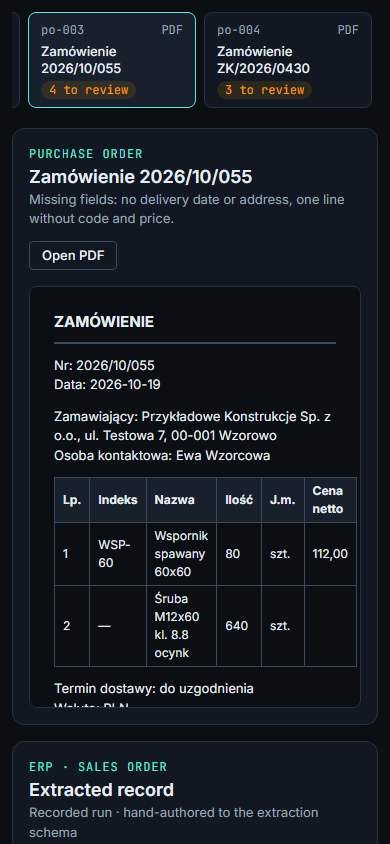
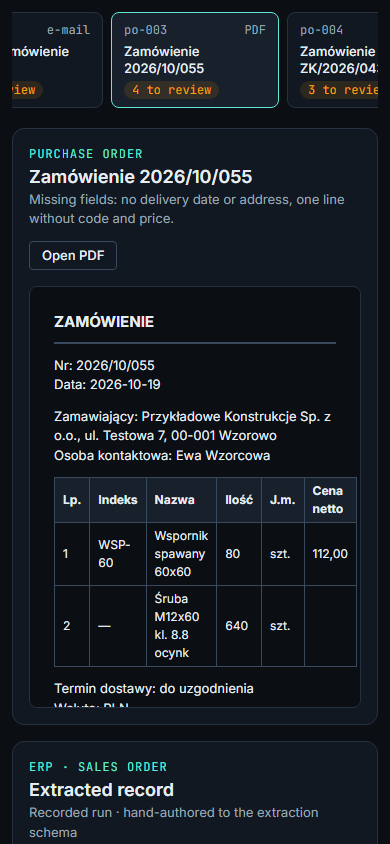
fix: restore focus after edits, report export errors and move type scale into tokens

Changed region(s): [[0.0308, 0.0, 0.5538, 0.1232], [0.5538, 0.0, 0.9846, 0.1232]]

diff --git a/src/ui/app.ts b/src/ui/app.ts
@@ -29,6 +29,9 @@ interface State {
   selected: string | null;
   editing: string | null;
   editError: string | null;
+  /** Element to focus after the next render (the editor it replaced is gone). */
+  focusAfter: string | null;
+  exportError: string | null;
   live: { busy: boolean; error: string | null };
 }
 
@@ -63,6 +66,8 @@ export function startApp(root: HTMLElement, initialDocId: string | null): void {
     selected: null,
     editing: null,
     editError: null,
+    focusAfter: null,
+    exportError: null,
     live: { busy: false, error: null },
   };
 
@@ -86,12 +91,36 @@ export function startApp(root: HTMLElement, initialDocId: string | null): void {
     );
     state.editing = null;
     state.editError = null;
+    state.focusAfter = `field:${path}`;
     render();
+  };
+
+  const closeEditor = (path: string) => {
+    state.editing = null;
+    state.editError = null;
+    state.focusAfter = `edit:${path}`;
+    render();
+  };
+
+  const selectField = (path: string) => {
+    if (state.selected === path) return;
+    state.selected = path;
+    highlightSource(viewOf(state.docId));
+    markSelected();
+  };
+
+  const runExport = (task: () => Promise<void>) => {
+    state.exportError = null;
+    task().catch((error: unknown) => {
+      state.exportError = `Export failed: ${error instanceof Error ? error.message : String(error)}`;
+      render();
+    });
   };
 
   function render(): void {
     const active = document.activeElement as HTMLElement | null;
-    const focusKey = active?.dataset['focus'];
+    const focusKey = state.focusAfter ?? active?.dataset['focus'];
+    state.focusAfter = null;
     const view = viewOf(state.docId);
     root.replaceChildren(header(), tabs(), workspace(view), footer());
     highlightSource(view);
@@ -107,7 +136,8 @@ export function startApp(root: HTMLElement, initialDocId: string | null): void {
     const tab = strip?.querySelector<HTMLElement>('[aria-current="true"]');
     if (!strip || !tab || strip.scrollWidth <= strip.clientWidth) return;
     // Not scrollIntoView: inside the case-study iframe that would also scroll the host page.
-    strip.scrollLeft = tab.offsetLeft - strip.offsetLeft - 16;
+    strip.scrollLeft =
+      tab.offsetLeft - strip.offsetLeft - (strip.clientWidth - tab.offsetWidth) / 2;
   }
 
   function header(): HTMLElement {
@@ -370,11 +400,7 @@ export function startApp(root: HTMLElement, initialDocId: string | null): void {
       };
       input.addEventListener('keydown', (e) => {
         if (e.key === 'Enter') save();
-        if (e.key === 'Escape') {
-          state.editing = null;
-          state.editError = null;
-          render();
-        }
+        if (e.key === 'Escape') closeEditor(f.path);
       });
       children.push(
         h(
@@ -387,11 +413,7 @@ export function startApp(root: HTMLElement, initialDocId: string | null): void {
             {
               class: 'btn btn-ghost',
               type: 'button',
-              onClick: () => {
-                state.editing = null;
-                state.editError = null;
-                render();
-              },
+              onClick: () => closeEditor(f.path),
             },
             'Cancel',
           ),
@@ -462,22 +484,15 @@ export function startApp(root: HTMLElement, initialDocId: string | null): void {
           .filter(Boolean)
           .join(' '),
         'data-path': f.path,
+        role: 'group',
+        'aria-label': `${f.label}: ${STATUS_LABEL[f.status]}`,
+        // Focusable so keyboard users can select a field and see its source highlighted.
         tabindex: '0',
         'data-focus': `field:${f.path}`,
         onFocus: (e: Event) => {
-          if (e.target === e.currentTarget && state.selected !== f.path) {
-            state.selected = f.path;
-            highlightSource(viewOf(state.docId));
-            markSelected();
-          }
+          if (e.target === e.currentTarget) selectField(f.path);
         },
-        onClick: () => {
-          if (state.selected !== f.path) {
-            state.selected = f.path;
-            highlightSource(viewOf(state.docId));
-            markSelected();
-          }
-        },
+        onClick: () => selectField(f.path),
       },
       ...children,
     );
@@ -531,7 +546,7 @@ export function startApp(root: HTMLElement, initialDocId: string | null): void {
             class: 'btn btn-primary',
             type: 'button',
             'data-focus': 'csv',
-            onClick: () => void exportCsv(view),
+            onClick: () => runExport(() => exportCsv(view)),
           },
           'Export CSV',
         ),
@@ -541,11 +556,12 @@ export function startApp(root: HTMLElement, initialDocId: string | null): void {
             class: 'btn btn-ghost',
             type: 'button',
             'data-focus': 'xlsx',
-            onClick: () => void exportXlsx(),
+            onClick: () => runExport(exportXlsx),
           },
           'Export XLSX (all documents)',
         ),
       ),
+      state.exportError ? h('p', { class: 'alert', role: 'alert' }, state.exportError) : null,
       h(
         'p',
         { class: 'export-note' },

diff --git a/tests/tokens.test.ts b/tests/tokens.test.ts
@@ -1,0 +1,96 @@
+import { readdirSync, readFileSync } from 'node:fs';
+import { join } from 'node:path';
+import { describe, expect, it } from 'vitest';
+
+const STYLES = join(import.meta.dirname, '..', 'src', 'styles');
+const tokensCss = readFileSync(join(STYLES, 'tokens.css'), 'utf8');
+
+function token(name: string): string {
+  const m = new RegExp(`--${name}:\\s*([^;]+);`).exec(tokensCss);
+  if (!m?.[1]) throw new Error(`token --${name} not found`);
+  return m[1].trim();
+}
+
+type Rgba = [number, number, number, number];
+
+function parseColor(value: string): Rgba {
+  const hex = /^#([0-9a-f]{6})$/i.exec(value);
+  if (hex?.[1]) {
+    const n = parseInt(hex[1], 16);
+    return [(n >> 16) & 255, (n >> 8) & 255, n & 255, 1];
+  }
+  const rgb = /^rgb\((\d+) (\d+) (\d+) \/ (\d+)%\)$/.exec(value);
+  if (rgb) return [Number(rgb[1]), Number(rgb[2]), Number(rgb[3]), Number(rgb[4]) / 100];
+  throw new Error(`unsupported colour ${value}`);
+}
+
+/** Alpha-composites `top` over an opaque `bottom`. */
+function over(top: Rgba, bottom: Rgba): Rgba {
+  const a = top[3];
+  return [0, 1, 2].map((i) => top[i]! * a + bottom[i]! * (1 - a)).concat(1) as Rgba;
+}
+
+// WCAG 2.x relative luminance and contrast ratio.
+function luminance([r, g, b]: Rgba): number {
+  const lin = (c: number) => {
+    const s = c / 255;
+    return s <= 0.03928 ? s / 12.92 : ((s + 0.055) / 1.055) ** 2.4;
+  };
+  return 0.2126 * lin(r) + 0.7152 * lin(g) + 0.0722 * lin(b);
+}
+
+function contrast(fg: Rgba, bg: Rgba): number {
+  const [hi, lo] = [luminance(fg), luminance(bg)].sort((a, b) => b - a) as [number, number];
+  return (hi + 0.05) / (lo + 0.05);
+}
+
+const c = (name: string) => parseColor(token(`color-${name}`));
+const tinted = (soft: string, base = 'surface') => over(c(soft), c(base));
+
+describe('design tokens', () => {
+  it('keep the agreed temporary brand values', () => {
+    expect(token('color-bg')).toBe('#0b0f14');
+    expect(token('color-surface')).toBe('#121821');
+    expect(token('color-text')).toBe('#e6edf3');
+    expect(token('color-text-muted')).toBe('#9aa7b4');
+    expect(token('color-accent')).toBe('#5eead4');
+    expect(token('color-warning')).toBe('#f59e0b');
+    expect(token('color-danger')).toBe('#f87171');
+    expect(token('font-sans')).toMatch(/^'Inter'/);
+    expect(token('font-mono')).toMatch(/^'JetBrains Mono'/);
+  });
+
+  it('are the only place with colours or font values — other stylesheets use var(--…)', () => {
+    for (const file of readdirSync(STYLES).filter((f) => f !== 'tokens.css')) {
+      const css = readFileSync(join(STYLES, file), 'utf8').replace(/\/\*[\s\S]*?\*\//g, '');
+      expect(css, file).not.toMatch(/#[0-9a-f]{3,8}\b|rgba?\(|hsla?\(/i);
+      expect(css, file).not.toMatch(/font-(size|weight|family):(?!\s*var\()[^;]*;/);
+      expect(css, file).not.toMatch(/line-height:\s*[\d.]+;/);
+    }
+  });
+
+  // [foreground, background, minimum ratio] — every pairing the stylesheet uses for text.
+  const pairs: [string, () => Rgba, () => Rgba, number][] = [
+    ['text on bg', () => c('text'), () => c('bg'), 4.5],
+    ['text on surface', () => c('text'), () => c('surface'), 4.5],
+    ['text on surface-2', () => c('text'), () => c('surface-2'), 4.5],
+    ['muted on bg', () => c('text-muted'), () => c('bg'), 4.5],
+    ['muted on surface', () => c('text-muted'), () => c('surface'), 4.5],
+    ['muted on surface-2', () => c('text-muted'), () => c('surface-2'), 4.5],
+    ['accent on surface', () => c('accent'), () => c('surface'), 4.5],
+    ['warning on surface-2', () => c('warning'), () => c('surface-2'), 4.5],
+    ['danger on surface-2', () => c('danger'), () => c('surface-2'), 4.5],
+    ['on-accent on accent', () => c('on-accent'), () => c('accent'), 4.5],
+    ['text on warning-soft', () => c('text'), () => tinted('warning-soft'), 4.5],
+    ['muted on warning-soft', () => c('text-muted'), () => tinted('warning-soft'), 4.5],
+    ['warning on warning-soft', () => c('warning'), () => tinted('warning-soft'), 4.5],
+    ['danger on warning-soft', () => c('danger'), () => tinted('warning-soft'), 4.5],
+    ['accent on accent-soft', () => c('accent'), () => tinted('accent-soft'), 4.5],
+    ['danger on danger-soft', () => c('danger'), () => tinted('danger-soft'), 4.5],
+    ['text on highlight', () => c('text'), () => tinted('highlight', 'bg'), 4.5],
+  ];
+
+  it.each(pairs)('meet WCAG AA contrast: %s', (_name, fg, bg, min) => {
+    expect(contrast(fg(), bg())).toBeGreaterThanOrEqual(min);
+  });
+});

diff --git a/src/styles/app.css b/src/styles/app.css
@@ -11,7 +11,7 @@ body {
   background: var(--color-bg);
   color: var(--color-text);
   font-family: var(--font-sans);
-  font-size: 16px;
+  font-size: var(--text-base);
   line-height: var(--leading);
 }
 
@@ -67,8 +67,8 @@ pre {
 
 .brand h1 {
   font-size: var(--text-lg);
-  font-weight: 600;
-  letter-spacing: -0.01em;
+  font-weight: var(--weight-semibold);
+  letter-spacing: var(--tracking-tight);
 }
 
 .tagline {
@@ -81,7 +81,7 @@ pre {
   font-family: var(--font-mono);
   font-size: var(--text-xs);
   padding: var(--space-1) var(--space-3);
-  border-radius: 999px;
+  border-radius: var(--radius-pill);
   border: 1px solid var(--color-border-strong);
   color: var(--color-text-muted);
 }
@@ -133,15 +133,15 @@ pre {
 
 .doc-tab-title {
   font-size: var(--text-sm);
-  font-weight: 500;
-  line-height: 1.3;
+  font-weight: var(--weight-medium);
+  line-height: var(--leading-tight);
 }
 
 .pill {
   font-family: var(--font-mono);
   font-size: var(--text-xs);
   padding: 0 var(--space-2);
-  border-radius: 999px;
+  border-radius: var(--radius-pill);
 }
 
 .pill-ok {
@@ -189,14 +189,14 @@ pre {
 
 .pane-head h2 {
   font-size: var(--text-lg);
-  font-weight: 600;
+  font-weight: var(--weight-semibold);
 }
 
 .eyebrow {
   font-family: var(--font-mono);
   font-size: var(--text-xs);
   text-transform: uppercase;
-  letter-spacing: 0.08em;
+  letter-spacing: var(--tracking-caps);
   color: var(--color-accent);
 }
 
@@ -230,7 +230,7 @@ pre {
 
 .paper h1 {
   font-size: var(--text-md);
-  font-weight: 700;
+  font-weight: var(--weight-bold);
   padding-bottom: var(--space-2);
   margin-bottom: var(--space-3);
   border-bottom: 2px solid var(--color-border-strong);
@@ -278,7 +278,7 @@ pre {
 .summary strong {
   font-family: var(--font-mono);
   font-size: var(--text-xl);
-  line-height: 1;
+  line-height: var(--leading-none);
 }
 
 .summary-sub {
@@ -313,9 +313,9 @@ pre {
   grid-column: 1 / -1;
   font-family: var(--font-mono);
   font-size: var(--text-xs);
-  font-weight: 500;
+  font-weight: var(--weight-medium);
   text-transform: uppercase;
-  letter-spacing: 0.08em;
+  letter-spacing: var(--tracking-caps);
   color: var(--color-text-muted);
 }
 
@@ -359,7 +359,7 @@ pre {
 .field-label {
   flex: 1;
   color: var(--color-text-muted);
-  font-weight: 500;
+  font-weight: var(--weight-medium);
 }
 
 .conf,
@@ -445,7 +445,7 @@ pre {
   font-size: var(--text-xs);
   color: var(--color-warning);
   text-transform: uppercase;
-  letter-spacing: 0.04em;
+  letter-spacing: var(--tracking-wide);
 }
 
 .issue-inconsistent .issue-code,
@@ -506,7 +506,7 @@ pre {
   padding: var(--space-1) var(--space-3);
   font: inherit;
   font-size: var(--text-sm);
-  font-weight: 500;
+  font-weight: var(--weight-medium);
   border-radius: var(--radius-sm);
   border: 1px solid transparent;
   cursor: pointer;

diff --git a/src/styles/tokens.css b/src/styles/tokens.css
@@ -34,7 +34,17 @@
   --text-md: 0.9375rem;
   --text-lg: 1.125rem;
   --text-xl: 1.5rem;
+  --text-base: 16px;
   --leading: 1.5;
+  --leading-tight: 1.3;
+  --leading-none: 1;
+  --weight-regular: 400;
+  --weight-medium: 500;
+  --weight-semibold: 600;
+  --weight-bold: 700;
+  --tracking-tight: -0.01em;
+  --tracking-wide: 0.04em;
+  --tracking-caps: 0.08em;
 
   /* space */
   --space-1: 0.25rem;
@@ -48,5 +58,6 @@
   --radius-sm: 4px;
   --radius-md: 8px;
   --radius-lg: 12px;
+  --radius-pill: 999px;
   --focus-ring: 0 0 0 2px var(--color-bg), 0 0 0 4px var(--color-accent);
 }
